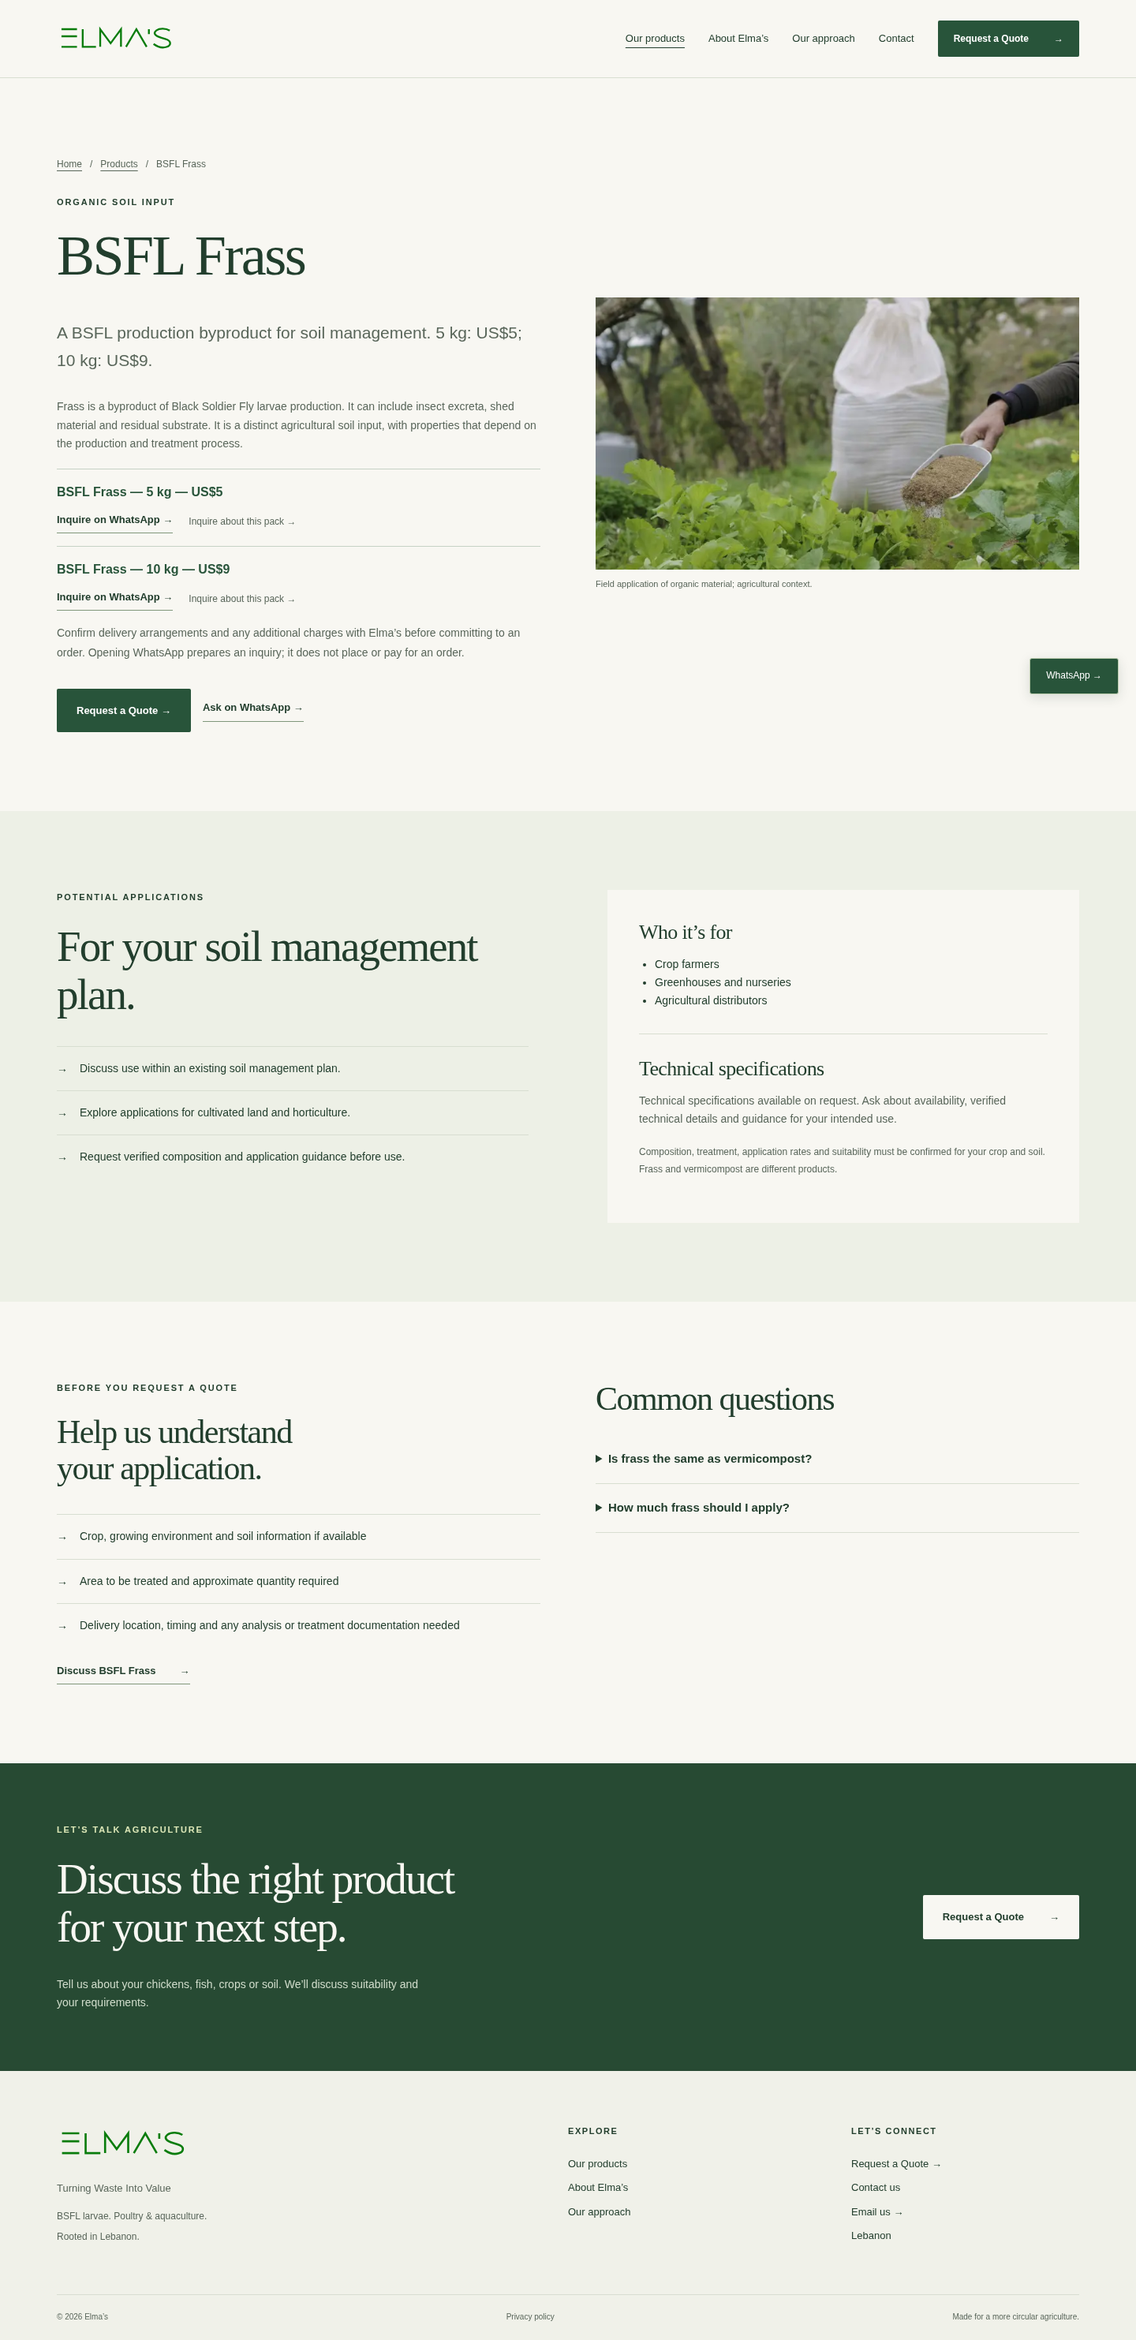
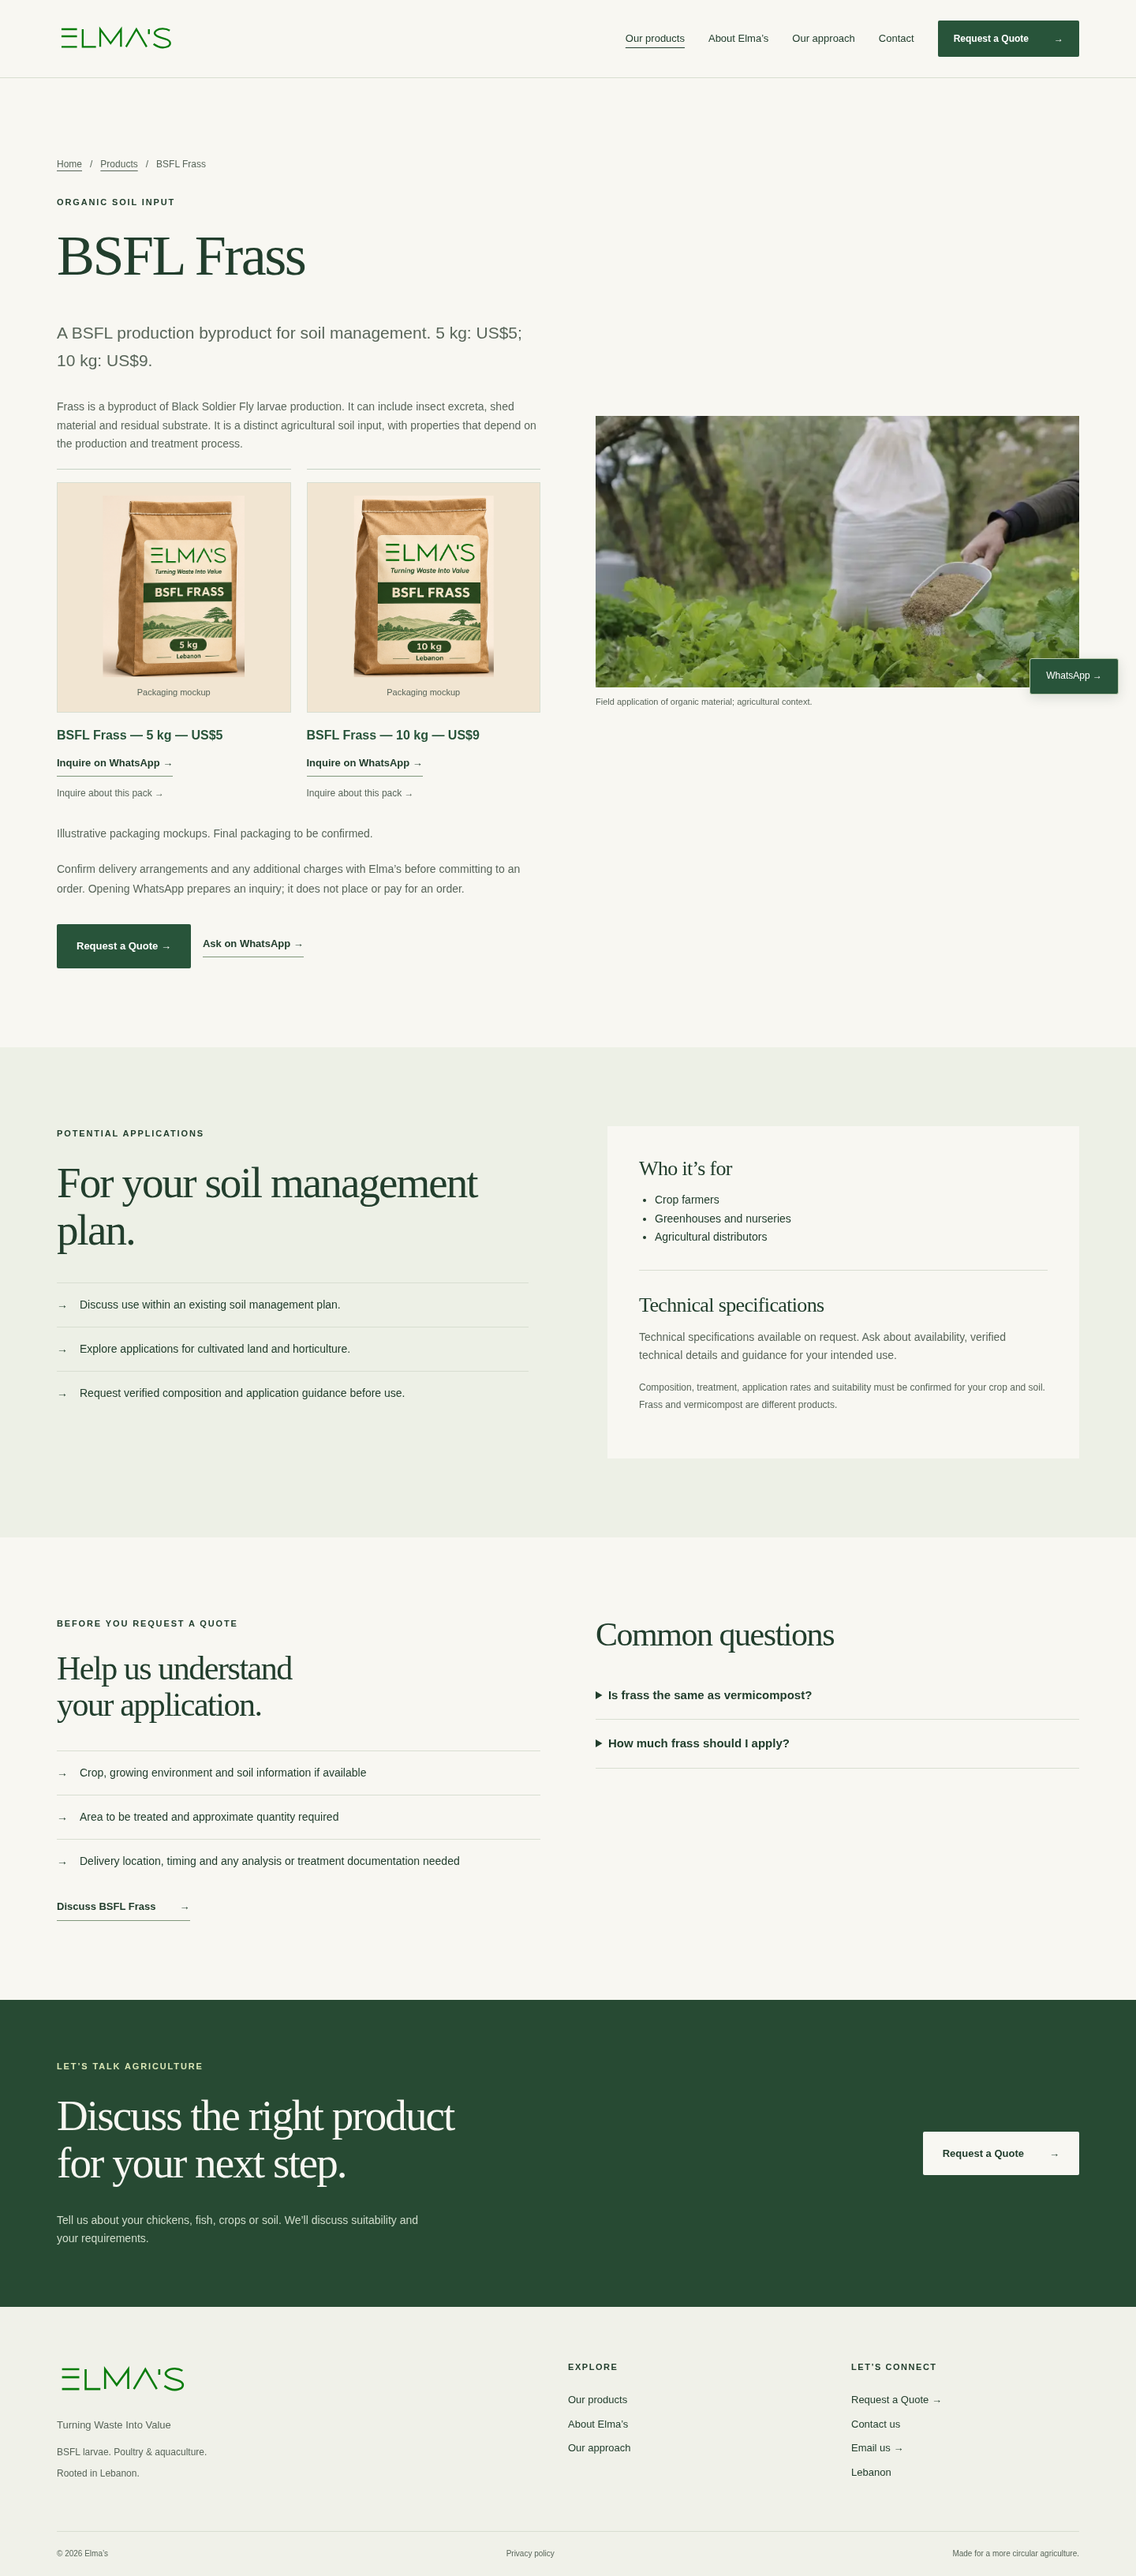
Show approved labeled packaging mockups beneath product offers

diff --git a/src/components/PackOffers.tsx b/src/components/PackOffers.tsx
@@ -2,37 +2,76 @@ import Link from 'next/link';
 import { deliveryNote, packLabel, quoteHref, type Product } from '@/content/site';
 import { whatsappUrl } from '@/lib/config';
 
-export function PackOffers({ product, compact = false }: { product: Product; compact?: boolean }) {
+export function PackOffers({
+  product,
+  compact = false,
+  showPackaging = true,
+}: {
+  product: Product;
+  compact?: boolean;
+  showPackaging?: boolean;
+}) {
   if (!product.packs.length) return <p className="note">Inquiry-only · Ask about vermicompost.</p>;
   return (
     <div className={`pack-offers${compact ? ' pack-offers--compact' : ''}`}>
-      {product.packs.map((pack) => {
-        const label = packLabel(product, pack);
-        const wa = whatsappUrl(label);
-        return (
-          <div className="pack-option" key={pack.id}>
-            <strong>{label}</strong>
-            <div className="actions">
-              {wa && (
-                <a
-                  className="text-link"
-                  href={wa}
-                  target="_blank"
-                  rel="noopener noreferrer"
-                  aria-label={`Inquire on WhatsApp: ${label}`}
-                >
-                  Inquire on WhatsApp →
-                </a>
+      <div className="pack-options">
+        {product.packs.map((pack) => {
+          const label = packLabel(product, pack);
+          const wa = whatsappUrl(label);
+          const [x, y, width, height] = pack.mockupViewBox.split(' ');
+          const clipId = `pack-art-${pack.id}`;
+          return (
+            <div className="pack-option" key={pack.id}>
+              {showPackaging && (
+                <figure className="package-mockup">
+                  <svg
+                    viewBox={pack.mockupViewBox}
+                    role="img"
+                    aria-label={`Approved packaging mockup: ${pack.format ? pack.format + ' ' : ''}${product.name}, ${pack.weightKg} kg`}
+                  >
+                    <defs>
+                      <clipPath id={clipId}>
+                        <rect x={x} y={y} width={width} height={height} />
+                      </clipPath>
+                    </defs>
+                    <image
+                      clipPath={`url(#${clipId})`}
+                      href="/assets/packaging/approved-packaging-concepts.png"
+                      width="1752"
+                      height="897"
+                    />
+                  </svg>
+                  <figcaption>Packaging mockup</figcaption>
+                </figure>
               )}
-              {!compact && (
-                <Link className="quote-link" href={quoteHref(product, pack)}>
-                  Inquire about this pack →
-                </Link>
-              )}
+              <strong>{label}</strong>
+              <div className="actions">
+                {wa && (
+                  <a
+                    className="text-link"
+                    href={wa}
+                    target="_blank"
+                    rel="noopener noreferrer"
+                    aria-label={`Inquire on WhatsApp: ${label}`}
+                  >
+                    Inquire on WhatsApp →
+                  </a>
+                )}
+                {!compact && (
+                  <Link className="quote-link" href={quoteHref(product, pack)}>
+                    Inquire about this pack →
+                  </Link>
+                )}
+              </div>
             </div>
-          </div>
-        );
-      })}
+          );
+        })}
+      </div>
+      {showPackaging && (
+        <p className="note packaging-note">
+          Illustrative packaging mockups. Final packaging to be confirmed.
+        </p>
+      )}
       {!compact && <p className="note">{deliveryNote}</p>}
     </div>
   );

diff --git a/src/content/site.ts b/src/content/site.ts
@@ -1,4 +1,10 @@
-export type Pack = { id: string; weightKg: number; priceUsd: number; format?: 'Live' };
+export type Pack = {
+  id: string;
+  weightKg: number;
+  priceUsd: number;
+  format?: 'Live';
+  mockupViewBox: string;
+};
 export const deliveryNote =
   'Confirm delivery arrangements and any additional charges with Elma’s before committing to an order. Opening WhatsApp prepares an inquiry; it does not place or pay for an order.';
 export function packLabel(product: Pick<Product, 'name'>, pack: Pack) {
@@ -29,7 +35,15 @@ export const products: Product[] = [
     slug: 'bsfl-protein',
     name: 'BSFL Larvae',
     primary: true,
-    packs: [{ id: 'live-10kg', format: 'Live', weightKg: 10, priceUsd: 10 }],
+    packs: [
+      {
+        id: 'live-10kg',
+        format: 'Live',
+        weightKg: 10,
+        priceUsd: 10,
+        mockupViewBox: '1000 250 730 515',
+      },
+    ],
     category: 'Chicken & fish feed',
     summary: 'Live Black Soldier Fly larvae for chicken and fish feeding applications.',
     description:
@@ -75,8 +89,8 @@ export const products: Product[] = [
     slug: 'bsfl-frass',
     name: 'BSFL Frass',
     packs: [
-      { id: 'frass-5kg', weightKg: 5, priceUsd: 5 },
-      { id: 'frass-10kg', weightKg: 10, priceUsd: 9 },
+      { id: 'frass-5kg', weightKg: 5, priceUsd: 5, mockupViewBox: '20 190 445 570' },
+      { id: 'frass-10kg', weightKg: 10, priceUsd: 9, mockupViewBox: '475 85 520 675' },
     ],
     category: 'Organic soil input',
     summary: 'A BSFL production byproduct for soil management. 5 kg: US$5; 10 kg: US$9.',

diff --git a/tests/browser/site.spec.ts b/tests/browser/site.spec.ts
@@ -229,3 +229,33 @@ test('keyboard navigation exposes focus and mobile menu', async ({ page }) => {
     page.getByRole('navigation').getByRole('link', { name: 'Our products' }),
   ).toBeFocused();
 });
+
+test('approved package mockups have their correct price beneath them', async ({
+  page,
+  request,
+}) => {
+  expect((await request.get('/assets/packaging/approved-packaging-concepts.png')).status()).toBe(
+    200,
+  );
+  await page.goto('/products');
+  await expect(page.locator('.package-mockup')).toHaveCount(3);
+  for (const [slug, labels] of [
+    ['bsfl-protein', ['Live BSFL Larvae — 10 kg — US$10']],
+    ['bsfl-frass', ['BSFL Frass — 5 kg — US$5', 'BSFL Frass — 10 kg — US$9']],
+  ] as const) {
+    await page.goto(`/products/${slug}`);
+    const options = page.locator('.product-detail .pack-option');
+    for (let i = 0; i < labels.length; i++) {
+      const option = options.nth(i);
+      await expect(option.locator('strong')).toHaveText(labels[i]);
+      await expect(option.locator('svg[role="img"]')).toBeVisible();
+      await expect(option.locator('figcaption')).toHaveText('Packaging mockup');
+      const art = await option.locator('figure').boundingBox();
+      const price = await option.locator('strong').boundingBox();
+      expect(price!.y).toBeGreaterThanOrEqual(art!.y + art!.height);
+    }
+  }
+  await page.goto('/');
+  await expect(page.locator('.hero img')).toHaveAttribute('alt', /larvae/);
+  await expect(page.locator('.package-mockup')).toHaveCount(0);
+});

diff --git a/src/app/globals.css b/src/app/globals.css
@@ -1476,3 +1476,32 @@ footer img {
     margin: 0 20px 20px auto;
   }
 }
+
+.pack-options {
+  display: grid;
+  grid-template-columns: repeat(auto-fit, minmax(min(100%, 230px), 1fr));
+  gap: 20px;
+}
+.package-mockup {
+  margin: 0 0 16px;
+  padding: 16px;
+  background: #f1e5d2;
+  border: 1px solid var(--line);
+}
+.package-mockup svg {
+  display: block;
+  width: 100%;
+  height: 230px;
+}
+.package-mockup figcaption {
+  font-size: 11px;
+  color: var(--muted);
+  margin-top: 10px;
+  text-align: center;
+}
+.packaging-note {
+  margin-top: 12px;
+}
+.pack-option .actions {
+  align-items: start;
+}

diff --git a/src/components/Shared.tsx b/src/components/Shared.tsx
@@ -36,7 +36,9 @@ export function ProductCards({
                 <Link href={`/products/${p.slug}`}>{p.name}</Link>
               </h3>
               <p>{p.summary}</p>
-              {(!compact || p.primary || !p.packs.length) && <PackOffers product={p} compact />}
+              {(!compact || p.primary || !p.packs.length) && (
+                <PackOffers product={p} compact showPackaging={!compact} />
+              )}
               {compact && !focusPrimary && p.slug !== 'bsfl-protein' && (
                 <small className="photo-context">Agricultural context photo</small>
               )}

diff --git a/ASSET_USAGE.md b/ASSET_USAGE.md
@@ -1,5 +1,7 @@
 # Asset inventory and usage
 
+Approved generated packaging artwork is documented below; it is separate from the authentic company-photo inventory.
+
 The official `Elmas_master_clean.svg` is preserved byte-for-byte in `assets/originals` and used in the header and footer as `public/assets/logo/elmas-logo.svg`. Its geometry and green color are unchanged. The PNG fallback supplied in websitepix.zip is preserved, but the site uses SVG.
 
 All ten photographs in `websitepix.zip` were inspected visually. All originals remain in `assets/originals`; all have optimized 1920px WebP variants in `public/assets/photos`. Twelve images were initially visible in chat; this downloadable ZIP contains ten. Only the accessible original files are used. No stock or generated imagery is used.
@@ -28,3 +30,9 @@ Product images and small mobile thumbnails now preserve landscape proportions in
 ## Confirmed-offer review — 12 November 2026
 
 All ten optimized photographs were visually inspected again. Existing images and original files are unchanged. The larvae photograph still leads the homepage; the primary mobile card now uses one column to keep the photo and offer readable. Outdoor frass/vermicompost images remain explicitly captioned as agricultural context. The soft, dark adult-fly photograph remains supporting imagery only. Updated desktop/mobile screenshots cover all ten public pages in `docs/screenshots`; no generated product photographs were added.
+
+## Owner-approved packaging mockups
+
+The owner approved the generated packaging concepts in this conversation: BSFL frass 5 kg, BSFL frass 10 kg, and live BSFL larvae 10 kg. The exact approved image is preserved at `public/assets/packaging/approved-packaging-concepts.png`. It is a concept illustration, not a company/product photograph and not confirmation of final packaging. The displayed container type is illustrative.
+
+Catalogue and product-detail offer cards show individual portions of that unchanged image through SVG viewports configured by `mockupViewBox` in the typed pack data. Each package has its correct editable text price underneath, its own WhatsApp inquiry action and a visible mockup caption. No image pixels, originals or official header/footer logo assets were altered. Authentic larvae photography still leads the homepage; packaging art is omitted there to retain its compact layout.

diff --git a/README.md b/README.md
@@ -22,7 +22,7 @@ The official supplied SVG is preserved byte-for-byte in `assets/originals` and `
 
 ## Owner editing
 
-- Confirmed pack IDs, weights, USD prices and live format: each product’s `packs` in `src/content/site.ts`. Pack cards, quote options, WhatsApp messages and Product/Offer JSON-LD derive from these fields. If changing an offer, also update descriptive copy, FAQ answers and SEO descriptions in the same file and page metadata where prices are mentioned.
+- Confirmed pack IDs, weights, USD prices and live format: each product’s `packs` in `src/content/site.ts`. Pack cards, quote options, WhatsApp messages and Product/Offer JSON-LD derive from these fields. `mockupViewBox` selects the matching package in the owner-approved concept image; see `ASSET_USAGE.md`. If changing an offer, also update descriptive copy, FAQ answers and SEO descriptions in the same file and page metadata where prices are mentioned.
 - Product names, descriptions, audiences, uses, buyer questions, FAQ answers and cautious application notes: `src/content/site.ts`. Add products using its typed model; detail routes and product selects derive from this list. Never add unverified performance, composition, formats or approvals.
 - Page-specific company copy: `src/app/page.tsx`, `about/page.tsx`, `sustainability/page.tsx`. English content is separated from reusable components, ready to extract into locale files later.
 - Photo mapping, factual alt text and captions: `images` in `src/content/site.ts`. Preserve originals in `assets/originals` and generate web variants using `node scripts/optimize-images.mjs original.png field` (or another documented image key). Review every photo before assigning a product identity. Material photographs are not proof of composition or results.

diff --git a/docs/VALIDATION.md b/docs/VALIDATION.md
@@ -57,3 +57,9 @@ Based on review branch commit febdb25c25e247346c9ea85cdcddbd2be5fe1360. The new 
 No external messages, SMTP configuration, deployment, DNS changes, purchases or external account changes were performed. Real email delivery and WhatsApp account availability remain unverified. Owner input is still needed for verified frass/vermicompost close-ups, other specifications and formats, permitted applications and privacy/legal arrangements. Delivery arrangements and additional charges must be confirmed per inquiry.
 
 Final screenshot review found the floating WhatsApp shortcut could cover phone form text. It now appears in normal page flow at widths up to 760px; the production build, lint/format checks and the 320px/390px page suites plus keyboard regression were rerun after this adjustment. The final screenshots reflect this fix.
+
+## Owner-approved package mockups
+
+Added the approved generated packaging artwork for frass 5 kg / US$5, frass 10 kg / US$9 and live larvae 10 kg / US$10 to catalogue and detail offer cards. Prices remain editable text directly beneath each image, with unchanged product/pack inquiry links. Each image is explicitly labeled as a mockup; the actual company photos and homepage priority remain unchanged.
+
+Lint with zero warnings, formatting, typecheck, seven unit tests and production build passed. All **12 browser checks** passed, including all public pages at 320/390/768/1440px and a new test for all three package images, correct prices below their figures, successful asset delivery and the photographic homepage hero. A final SVG clipping adjustment isolates each individual package from its neighbors; the build and package regression were checked again afterward. Desktop/mobile review screenshots were refreshed.

diff --git a/docs/SEO_AND_PHOTO_REVIEW.md b/docs/SEO_AND_PHOTO_REVIEW.md
@@ -61,3 +61,7 @@ Live larvae remain the main product: 10 kg for US$10. Frass has separate 5 kg / 
 All ten pages have refreshed 1440px desktop and 390px mobile screenshots. Additional screenshots: [vermicompost](screenshots/vermicompost-desktop.png), [approach](screenshots/sustainability-desktop.png), [selected-pack quote](screenshots/quote-mobile.png), [privacy](screenshots/privacy-desktop.png). Run `node scripts/review-offers.mjs` against a running local production server to refresh them (system Chromium, or `CHROMIUM_PATH`). No new Lighthouse measurement was taken; prior scores above are historical only.
 
 On phones the persistent WhatsApp shortcut is placed after the footer in normal page flow so it cannot obscure form text or photos. Product-specific WhatsApp actions remain next to the offers.
+
+## Approved packaging artwork
+
+The catalogue and larvae/frass detail pages now pair each confirmed offer with its owner-approved packaging mockup. Editable product/weight/price text appears directly beneath the matching artwork. Cards visibly identify the illustrations as mockups and state that final packaging is to be confirmed. Original agricultural context and larvae-production photos remain in place, and the homepage still leads with the actual larvae production image. Product structured data continues to use the existing product/context image rather than depicting a mockup as an authentic product photo.

diff --git a/LAUNCH_CHECKLIST.md b/LAUNCH_CHECKLIST.md
@@ -21,3 +21,6 @@ The website has not been deployed. These are release prerequisites, not complete
 - [x] Implement owner-confirmed live larvae 10 kg / US$10 and frass 5 kg / US$5, 10 kg / US$9. Vermicompost remains inquiry-only.
 - [x] Validate pack-specific WhatsApp inquiry links, quote selection and matching USD structured data without sending messages.
 - [ ] Confirm delivery arrangements and any additional charges with each customer before an order commitment. No delivery fees, taxes, stock levels, timelines or payment terms are invented.
+
+- [x] Add owner-approved labeled 5 kg frass, 10 kg frass and 10 kg live-larvae packaging mockups with correct prices beneath each.
+- [ ] Confirm actual packaging before replacing the visible mockup designation with an actual-packaging claim.
